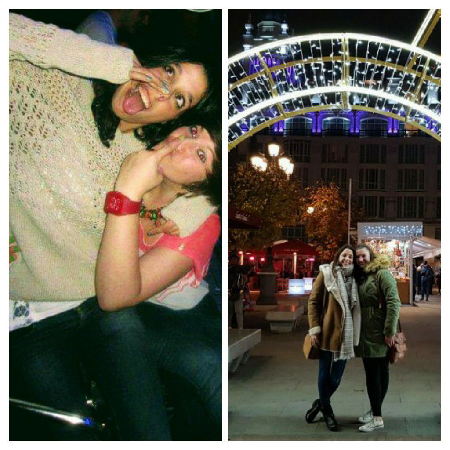
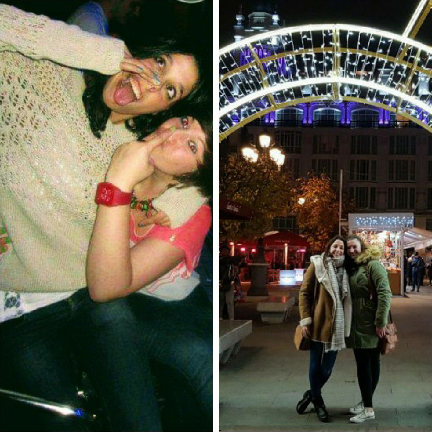
Changed the size of many photos (to gain rounded border and to load faster the page), redirected images

diff --git a/logged-in.html b/logged-in.html
@@ -49,38 +49,41 @@
               <p>
                 <i class="fas fa-tags"></i> Más de 20 fotos en las que apareces
               </p>
-              <img src="img/small/babi.jpg" alt="Foto de Babi" title="Babi">
-              <img src="img/small/boon.jpg" alt="Foto de Boon" title="Boon">
-              <img src="img/small/ghatessi.jpg" alt="Foto de Ghatessi" title="Ghatessi">
-              <img src="img/small/niebla.jpg" alt="Foto de Niebla" title="Niebla">
-              <a href="#ana"><img src="img/small/ana.jpg" alt="Foto de Ana" title="Ana"></a>
-              <a href="#olga"><img src="img/small/olga-heras.jpg" alt="Foto de Olga" title="Olga"></a>
-              <a href="#ana-2"><img src="img/small/any.jpg" alt="Otra foto de Ana" title="Ana otra vez"></a>
-              <a href="#pablo"><img src="img/small/pablo-vecino-mar.jpg" alt="Foto de Pablo" title="Pablo"></a>
-              <a href="#menen"><img src="img/small/menen.jpg" alt="Fotos de Menen" title="Menen"></a>
-              <a href="#fabio"><img src="img/small/fabio.jpg" alt="Foto de Fabio" title="Fabio"></a>
-              <a href="#ines"><img src="img/small/ines.jpg" alt="Foto de Inés" title="Inés"></a>
-              <a href="#nau"><img src="img/small/nau.jpg" alt="Fotos de Nau" title="Nau"></a>
-              <a href="#miguelo"><img src="img/small/miguelo.jpg" alt="Foto de Miguelo" title="Miguelo"></a>
-              <a href="#rocio"><img src="img/small/rocio.jpg" alt="Fotos de Rocío" title="Rocío"></a>
-              <a href="#aurora"><img src="img/small/aurora.jpg" alt="Foto de Aurora" title="Aurora"></a>
-              <a href="#ale"><img src="img/small/ale.jpg" alt="Foto de Ale" title="Ale"></a>
-              <a href="#zabala"><img src="img/small/zabala.jpg" alt="Foto de Zabala" title="Zabala"></a>
-              <a href="#borja"><img src="img/small/borja.jpg" alt="Foto de Borja" title="Borja"></a>
-              <a href="#angy"><img src="img/small/angy.png" alt="Foto de Angy" title="Angy"></a>
-              <a href="#cristina"><img src="img/small/cristina.jpg" alt="Foto de Cristina" title="Cristina"></a>
-              <a href="#maria"><img src="img/small/maria.jpg" alt="Foto de María" title="María"></a>
-              <a href="#ana-prima"><img src="img/small/ana-prima.jpg" alt="Foto de Ana prima" title="Ana prima"></a>
-              <a href="#juan-primo"><img src="img/small/juan-primo.jpg" alt="Foto de Juan primo" title="Juan primo"></a>
+              <img src="img/x-small/babi.jpg" alt="Foto de Babi" title="Babi">
+              <img src="img/x-small/boon.jpg" alt="Foto de Boon" title="Boon">
+              <img src="img/x-small/ghatessi.jpg" alt="Foto de Ghatessi" title="Ghatessi">
+              <img src="img/x-small/niebla.jpg" alt="Foto de Niebla" title="Niebla">
+              <a href="#ana"><img src="img/x-small/ana.jpg" alt="Foto de Ana" title="Ana"></a>
+              <a href="#olga"><img src="img/x-small/olga-heras.jpg" alt="Foto de Olga" title="Olga"></a>
+              <a href="#ana-2"><img src="img/x-small/any.jpg" alt="Otra foto de Ana" title="Ana otra vez"></a>
+              <a href="#pablo"><img src="img/x-small/pablo-vecino-mar.jpg" alt="Foto de Pablo" title="Pablo"></a>
+              <a href="#menen"><img src="img/x-small/menen.jpg" alt="Fotos de Menen" title="Menen"></a>
+              <a href="#fabio"><img src="img/x-small/fabio.jpg" alt="Foto de Fabio" title="Fabio"></a>
+              <a href="#ines"><img src="img/x-small/ines.jpg" alt="Foto de Inés" title="Inés"></a>
+              <a href="#nau"><img src="img/x-small/nau.jpg" alt="Fotos de Nau" title="Nau"></a>
+              <a href="#miguelo"><img src="img/x-small/miguelo.jpg" alt="Foto de Miguelo" title="Miguelo"></a>
+              <a href="#rocio"><img src="img/x-small/rocio.jpg" alt="Fotos de Rocío" title="Rocío"></a>
+              <a href="#aurora"><img src="img/x-small/aurora.jpg" alt="Foto de Aurora" title="Aurora"></a>
+              <a href="#ale"><img src="img/x-small/ale.jpg" alt="Foto de Ale" title="Ale"></a>
+              <a href="#zabala"><img src="img/x-small/zabala.jpg" alt="Foto de Zabala" title="Zabala"></a>
+              <a href="#borja"><img src="img/x-small/borja.jpg" alt="Foto de Borja" title="Borja"></a>
+              <a href="#angy"><img src="img/x-small/angy.png" alt="Foto de Angy" title="Angy"></a>
+              <a href="#cristina"><img src="img/x-small/cristina.jpg" alt="Foto de Cristina" title="Cristina"></a>
+              <a href="#maria"><img src="img/x-small/maria.jpg" alt="Foto de María" title="María"></a>
+              <a href="#ana-prima"><img src="img/x-small/ana-prima.jpg" alt="Foto de Ana prima" title="Ana prima"></a>
+              <a href="#juan-primo"><img src="img/x-small/juan-primo.jpg" alt="Foto de Juan primo" title="Juan primo"></a>
               <p>
                 <i class="fas fa-comment"></i> 3 comentarios
               </p>
               <p>
                 <a href="img/flyer.jpeg" target="_blank"><i class="fas fa-envelope"></i> 1 mensaje privado</a>
               </p>
+              <p>
+                <a href="img/flyer.jpeg" target="_blank"><i class="fas fa-calendar-alt"></i> 1 invitación a evento</a>
+              </p>
             </div>
           </div>
-          <div class="chat-box d-none d-md-block d-xl-none">
+          <div class="chat-box d-none d-md-block">
             <div class="header-chat">
               <i class="fas fa-circle"></i>
               <strong>Chat</strong>
@@ -125,7 +128,7 @@
                   <summary>Sí, ¡por favor!</summary>
                   <h5>De acueeeeerdo, te cueeeento:</h5>
                   <ul>
-                    <li>Me pongo la primer porque molo, porque todo el mundo me dice que me lo he currao' y ya estas dos cosas me parecen motivo suficiente 😜</li>
+                    <li>Me pongo la primer porque molo, porque todo el mundo me dice que me lo he currao' y estas dos cosas ya me parecen motivo suficiente 😜</li>
                     <li>Los audios se pueden escuchar. Le das a <em>play</em>, y listo
                       <audio src="audio/babi.aac" controls type="audio/aac"></audio>
                     </li>

diff --git a/style.css b/style.css
@@ -13,11 +13,13 @@ audio {
   margin: 0 auto;
   padding: 0 10px 20px;
 }
+/* Start of ROW-ZERO */
 .row-zero {
   max-width: 60%;
   display: block;
   margin: 10px auto;
 }
+/* End of ROW-ZERO */
 /*Start of FIRST-ROW*/
 .first-row {
   background-color: #6ba6cb;
@@ -38,7 +40,7 @@ audio {
 .second-row {
   background-color: #eeeeee;
   border: solid 1px #cacaca;
-  border-radius: 5px;
+  border-radius: 0 0 5px 5px;
   padding: 5px;
 }
 .second-row div img {
